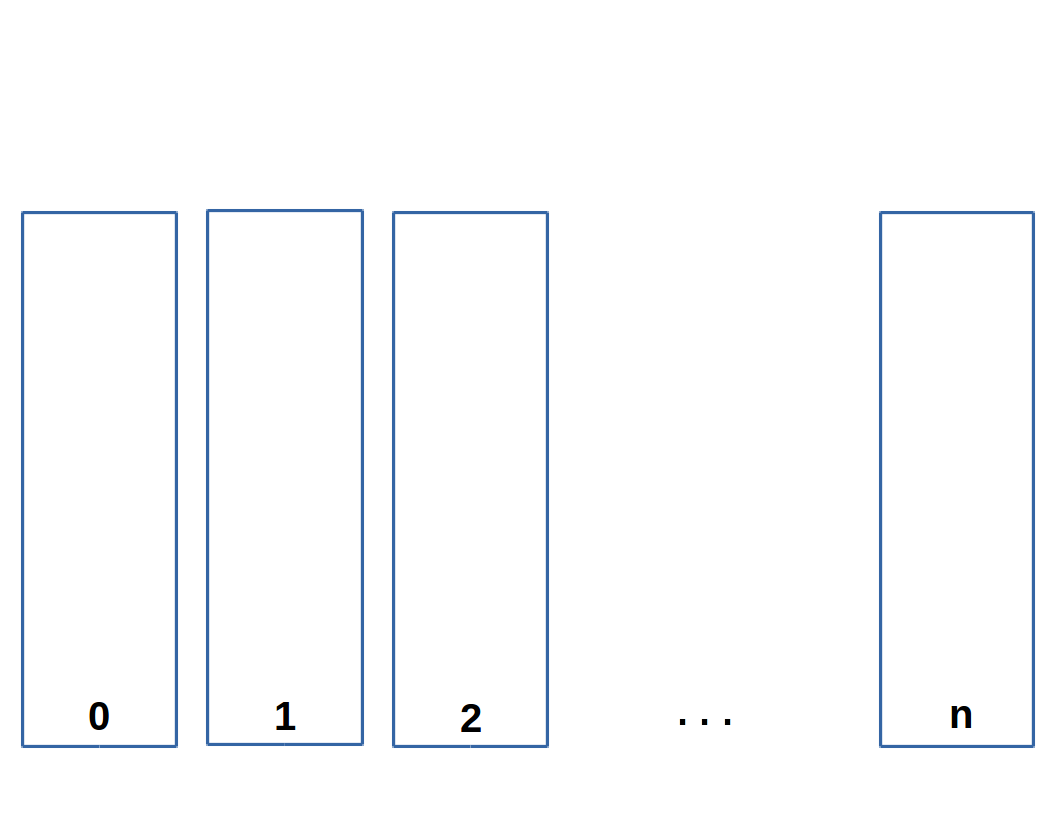
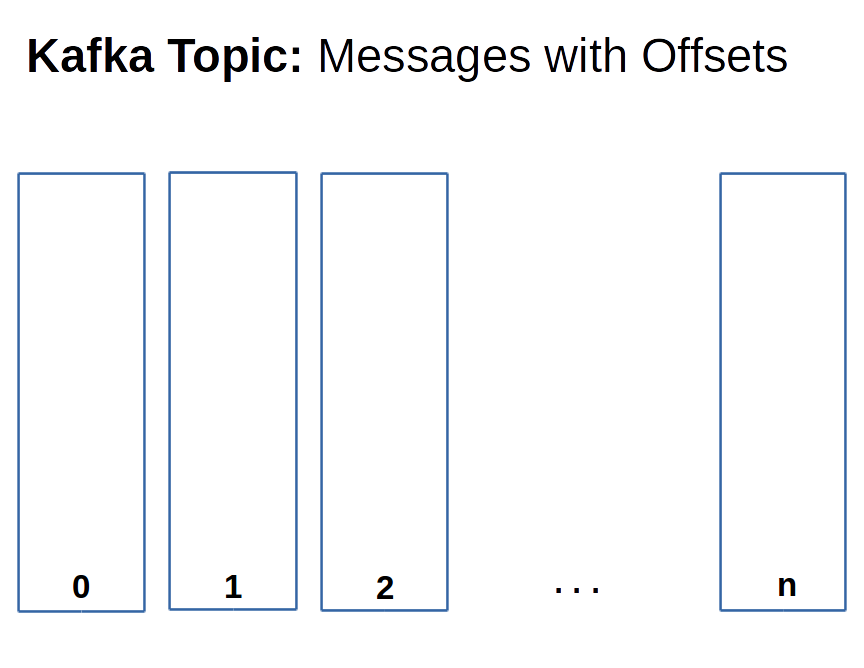
Moves text into the image for topic-message-offsets.

diff --git a/index.html b/index.html
@@ -61,8 +61,8 @@
           <img src="peoplesoft-to-pure-to-experts-dw-to-kafka.png" style="background:none; border:none; box-shadow:none;">
         </section>
 
-        <section data-background="topic-message-offsets.png">
-          <h2 style="vertical-align: text-top">Kafka Topic</h2>
+        <section>
+          <img src="topic-message-offsets.png" style="background:none; border:none; box-shadow:none;">
         </section>
 
 			</div>
